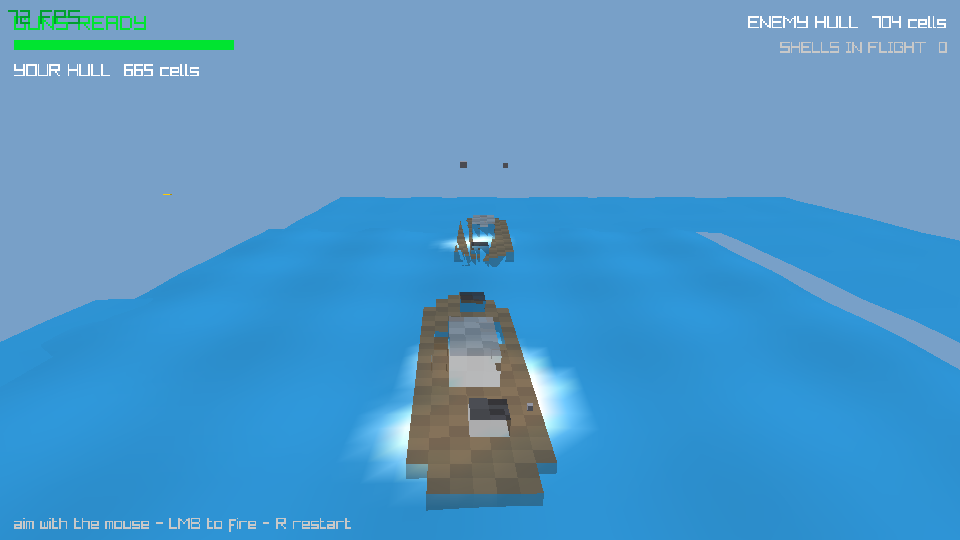
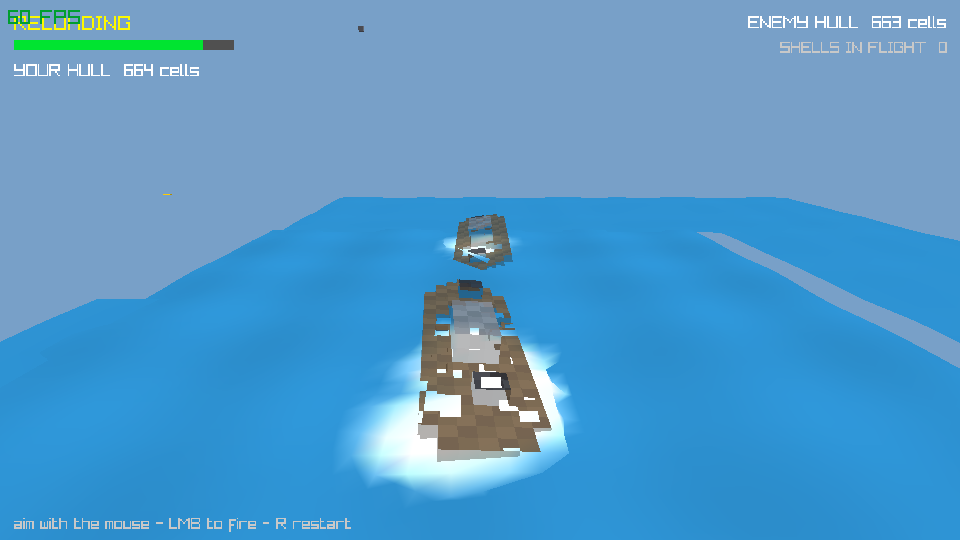
Ocean dispatch: route battle churn to the C field kernel
Wake + blast vorticity crosses the old SPARSE-MAX=160 within seconds of
real fighting, flipping the whole 1849-particle sea onto the pure-jolt
FMM whose near-field sums cost ~2s per frame - the game ran at half a
fps and looked frozen. The kernel path now covers every realistic
battle state (SPARSE-MAX 4096); FMM stays for mega-scale seas. Verified:
full battle incl. both ships sinking at 59fps, 2297 frames in 40s.

Sea sheet corners now ride the mean (x,z) of their adjacent particles
(clamped near the lattice), so wake advection and swirls visibly drag
the water instead of only lifting it.

main.clj reports avg-sim/draw/phys-ms in the smoke summary - capped dt
hid the real cost - and VOXEL_APP_REFIRE fires every N frames for
battle soak runs. deps.edn sea task links raylib by absolute path (the
CLT linker does not search homebrew).

diff --git a/native/voxel_sea.c b/native/voxel_sea.c
@@ -191,11 +191,14 @@ void vsea_mesh_init(int cols, int rows, double step, double origin)
 	sea.ready = 1;
 }
 
-// vsea_mesh_update(spray, om, n, t, sun[3], half[3],
+// vsea_mesh_update(spray, xs, zs, om, n, t, sun[3], half[3],
 //                  deep[4], swell[4], foamc[4]):
 // refill the mesh for frame time t from the per-particle spray heights and
 // vorticities (foam), then upload. Colors mirror voxel.light's shading.
-void vsea_mesh_update(const double *spray, const double *om, int64_t n,
+// Field corners ride the mean (x,z) of their adjacent particles (clamped
+// near the lattice) so wake advection and swirls visibly drag the sheet.
+void vsea_mesh_update(const double *spray, const double *xs,
+                      const double *zs, const double *om, int64_t n,
                       double t,
                       const double *sun, const double *half,
                       const unsigned char *deep,
@@ -225,6 +228,37 @@ void vsea_mesh_update(const double *spray, const double *om, int64_t n,
 			int vi = ci * W + cj;
 			double x = -origin + ci * step;
 			double z = -origin + cj * step;
+			{
+				double mx = 0.0, mz = 0.0;
+				int pcnt = 0, i0 = ci - 1, j0 = cj - 1;
+				for (int i = i0; i <= i0 + 1 && i < cols; i++) {
+					if (i < 0)
+						continue;
+					for (int j = j0; j <= j0 + 1 && j < rows; j++) {
+						if (j < 0)
+							continue;
+						int p2 = i * rows + j;
+						mx += xs[p2];
+						mz += zs[p2];
+						pcnt++;
+					}
+				}
+				if (pcnt) {
+					mx /= pcnt;
+					mz /= pcnt;
+					double ddx = mx - x, ddz = mz - z, cl = 0.9;
+					if (ddx > cl)
+						ddx = cl;
+					else if (ddx < -cl)
+						ddx = -cl;
+					if (ddz > cl)
+						ddz = cl;
+					else if (ddz < -cl)
+						ddz = -cl;
+					x += ddx;
+					z += ddz;
+				}
+			}
 			double hm = ci > 0 ? hs[(ci - 1) * W + cj] : hs[vi];
 			double hp = ci < cols ? hs[(ci + 1) * W + cj] : hs[vi];
 			double gm = cj > 0 ? hs[ci * W + cj - 1] : hs[vi];
